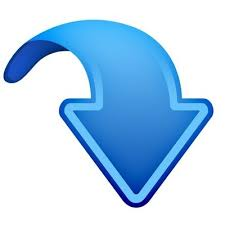
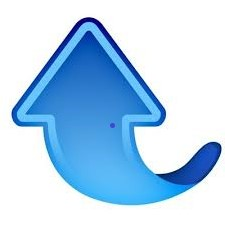
find error invalid types of string

diff --git a/src/components/App.js b/src/components/App.js
@@ -5,9 +5,11 @@ import Papa from 'papaparse';
 import TableSap from './TableSap';
 import TableSearch from './TableSearch';
 import ReactPaginate from 'react-paginate';
+import PropTypes from 'prop-types';
 var color3 = "white";
 var color7 = "green";
 var color0 = "red";
+let s = Object.prototype.toString;
 class App extends Component {
   constructor() {
     super();
@@ -71,17 +73,24 @@ class App extends Component {
     this.setState({search, currentPage: 0})
   )
   getFilteredData(){
-    const {data1, search} = this.state
+
+    const {data1, search,fields} = this.state
+    console.log(data1);
+    console.log(search.toLowerCase());
     if (!search) {
       return data1
     }
-   var result = data1.filter(item => {
-     return (
-       item["VBELN"].toLowerCase().includes(search.toLowerCase())
-       //item["lastName"].toLowerCase().includes(search.toLowerCase()) ||
+   var result = data1.filter(item =>(fields.some(prop=>(item[prop]!=null && 
+    (s.call(item[prop])===s.call(123)) 
+    ?item[prop].toString().toLowerCase().includes(search.toLowerCase())
+    :item[prop].includes(search.toLowerCase())))));
+    console.log(result);
+    //  item["VBELN"].toLowerCase().includes(search.toString().toLowerCase())
+
+             //item["lastName"].toLowerCase().includes(search.toLowerCase()) ||
        //item["email"].toLowerCase().includes(search.toLowerCase())
-     );
-   });
+     
+  
    if(!result.length){
      result = this.state.data
    }

diff --git a/src/components/SortImage.js b/src/components/SortImage.js
@@ -1,8 +1,6 @@
 import React from 'react';
-import down from '../Images/down1.jpg'
 export default props => (
    <span className="Icon"><img src = {props.sort === "asc" 
-   ? require("../Images/up2.jpg")
-   : require("../Images/down2.jpg")} alt = {props.sort} width="30" hight = "30" align="left" />
-   {console.log(require("../Images/down1.jpg")),console.log({down})}</span>
-);
+   ? require("../Images/up1.jpg")
+   : require("../Images/down1.jpg")} alt = {props.sort} width="10" hight = "10" align="left" /></span>
+)
